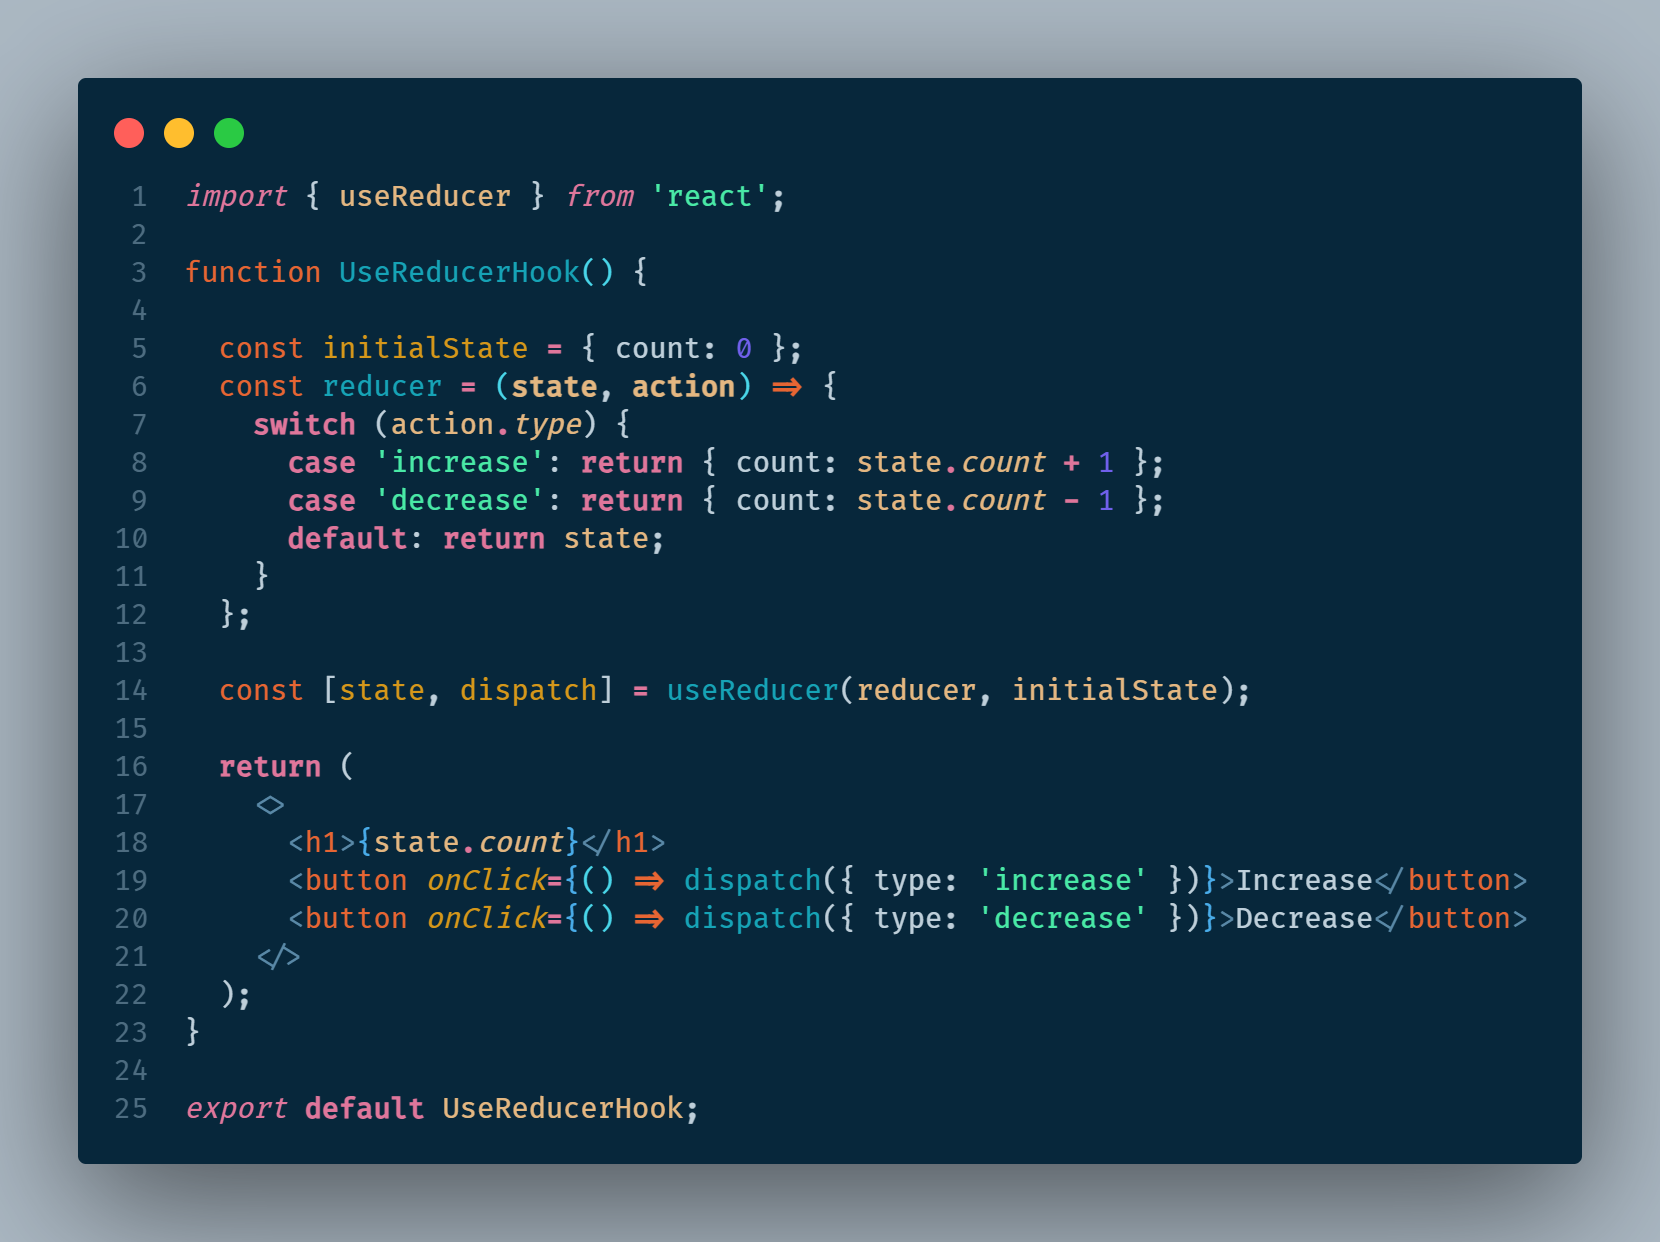
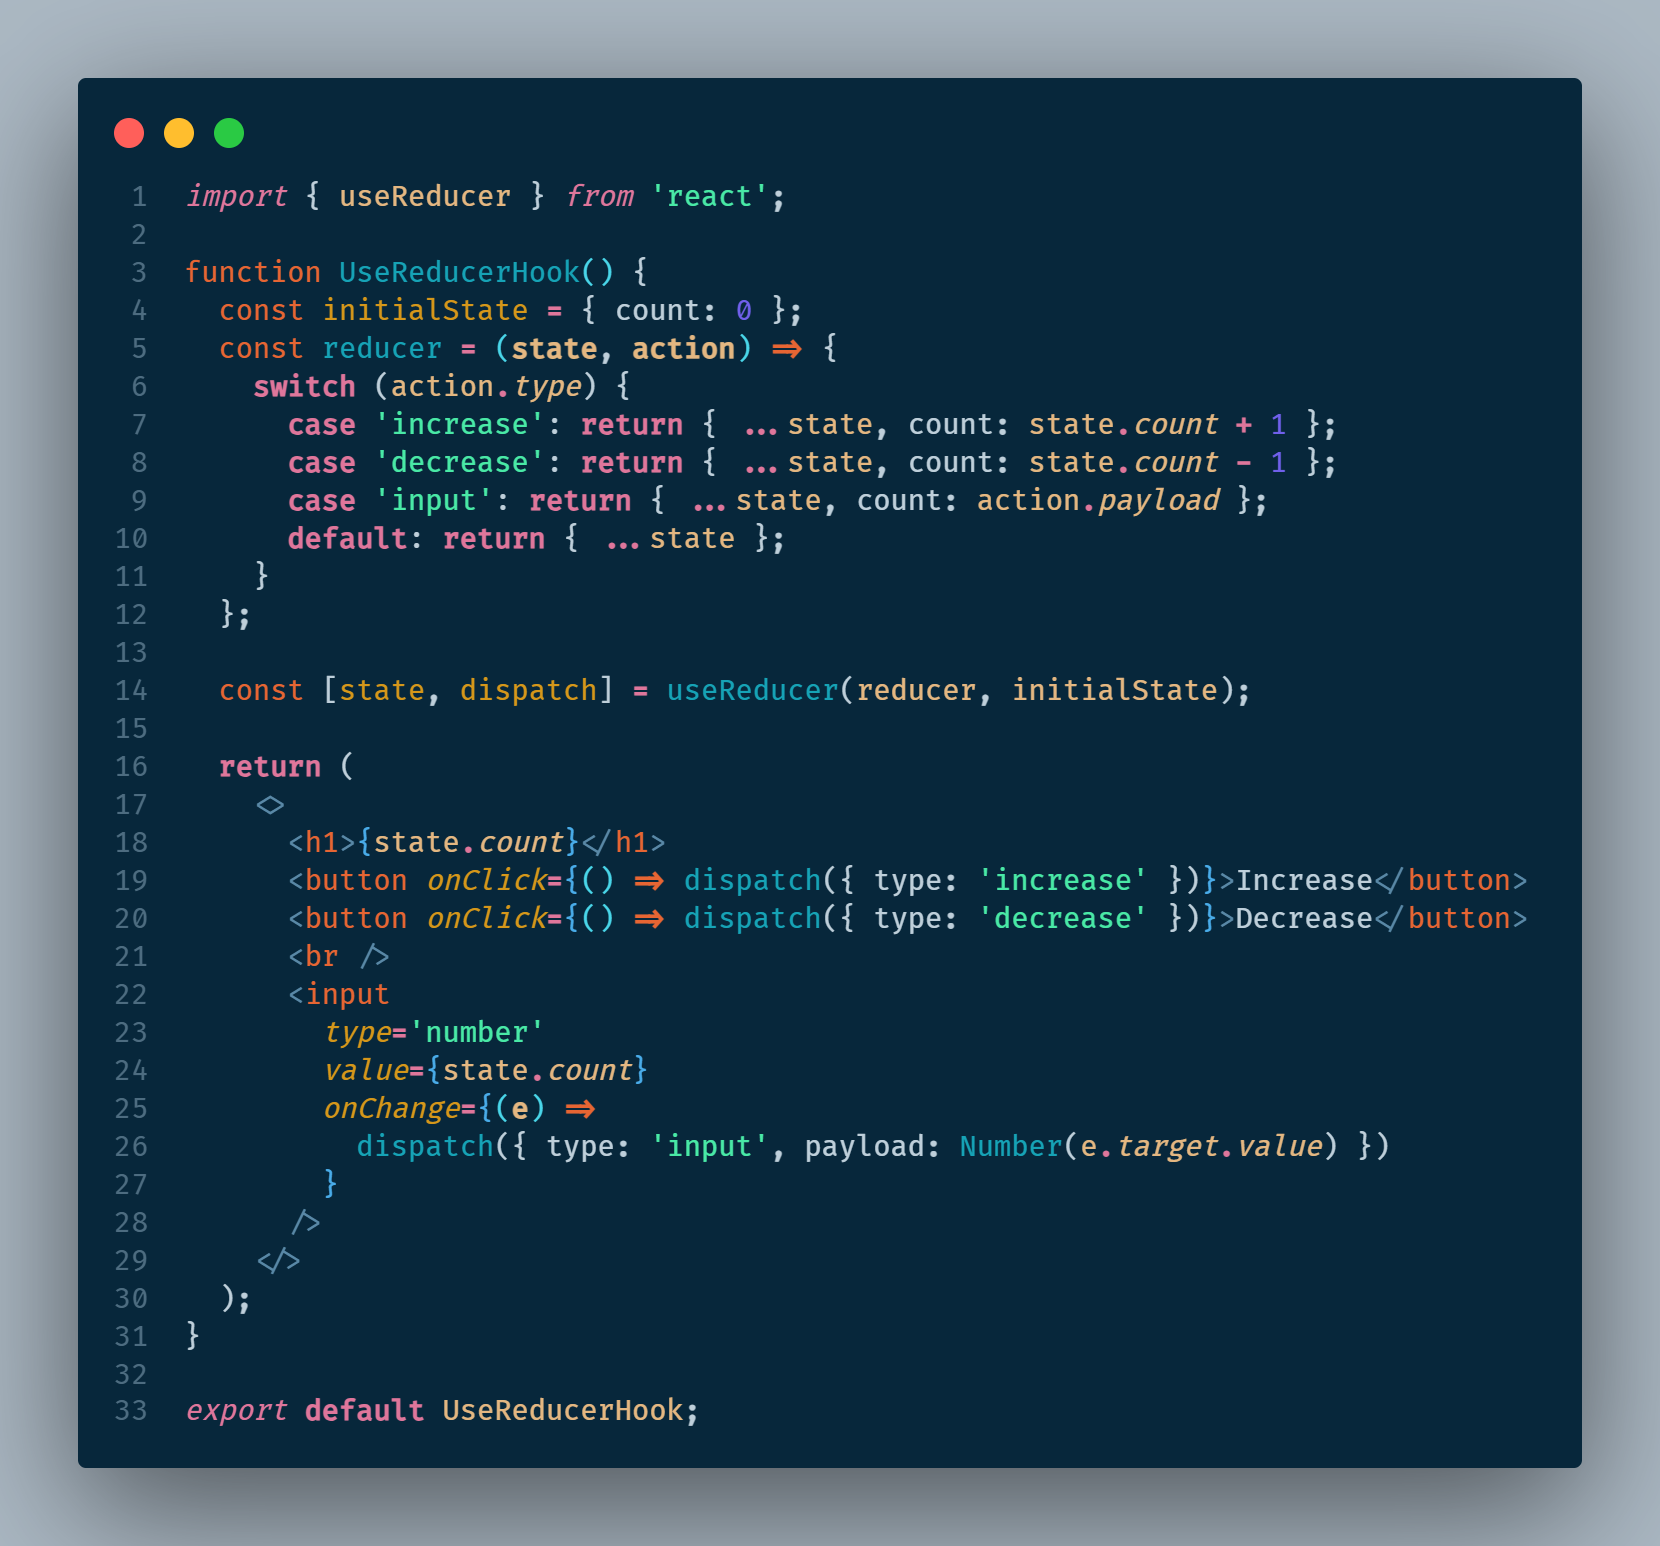
Mejorar explicación hook 'useReducer'

diff --git a/react-principios/src/components/hooks/UseReducerHook.jsx b/react-principios/src/components/hooks/UseReducerHook.jsx
@@ -8,6 +8,8 @@ function UseReducerHook() {
         return { ...state, count: state.count + 1 };
       case 'decrease':
         return { ...state, count: state.count - 1 };
+      case 'input':
+        return { ...state, count: action.payload };
       default:
         return { ...state };
     }
@@ -20,6 +22,14 @@ function UseReducerHook() {
       <h1>{state.count}</h1>
       <button onClick={() => dispatch({ type: 'increase' })}>Increase</button>
       <button onClick={() => dispatch({ type: 'decrease' })}>Decrease</button>
+      <br />
+      <input
+        type='number'
+        value={state.count}
+        onChange={(e) =>
+          dispatch({ type: 'input', payload: Number(e.target.value) })
+        }
+      />
     </>
   );
 }

diff --git a/README.md b/README.md
@@ -357,7 +357,9 @@ En la línea 6 se crea la función reductora que recibe el estado actual `state`
 
 En la línea 14 se ve el uso del hook `useReducer` el cual recibe por parámetro la función reductora `reducer` y el estado inicial `initialState`. Esta función retorna un arreglo que puede ser desestructurado en 2 elementos, el primero es el estado actual `state` y el segundo elemento es una función que ayuda a modificar el estado, `dispatch`.
 
-Finalmente tanto como el estado actual como la función de despacho que ayuda a modificar el estado puede ser usado en el componente. `state` al ser un objeto, se debe acceder a sus propiedades con la notación punto `state.count`. La función `dispatch` envía por parámetro un objeto con el tipo que se quiere evaluar (`dispatch({ type: 'tipo-evaluado-switch-case'})`) y posteriormente ser ejecutado por la función reductora.
+Finalmente tanto como el estado actual como la función de despacho que ayuda a modificar el estado puede ser usado en el componente. `state` al ser un objeto, se debe acceder a sus propiedades con la notación punto `state.count`. La función `dispatch` envía por parámetro un objeto con el tipo que se quiere evaluar (`dispatch({ type: 'tipo-evaluado-switch-case'})`) y posteriormente puede ser ejecutado por la función reductora.
+
+La función `dispatch` también puede ser usada para enviar información a la función reductora, mediante la propiedad `payload` (`dispatch({ payload: 'valor-u-objeto' })`), tal como se muestra en la linea 26; este valor llegará a la función reductora en el parámetro action y podrá ser recuperado y procesado tal como se hace en la línea 9 en la cual se asigna el valor del `payload` al estado en su propiedad `count`
 
 ![uso del hook useReducer](./assets/react-useReducer.png)
 ``
